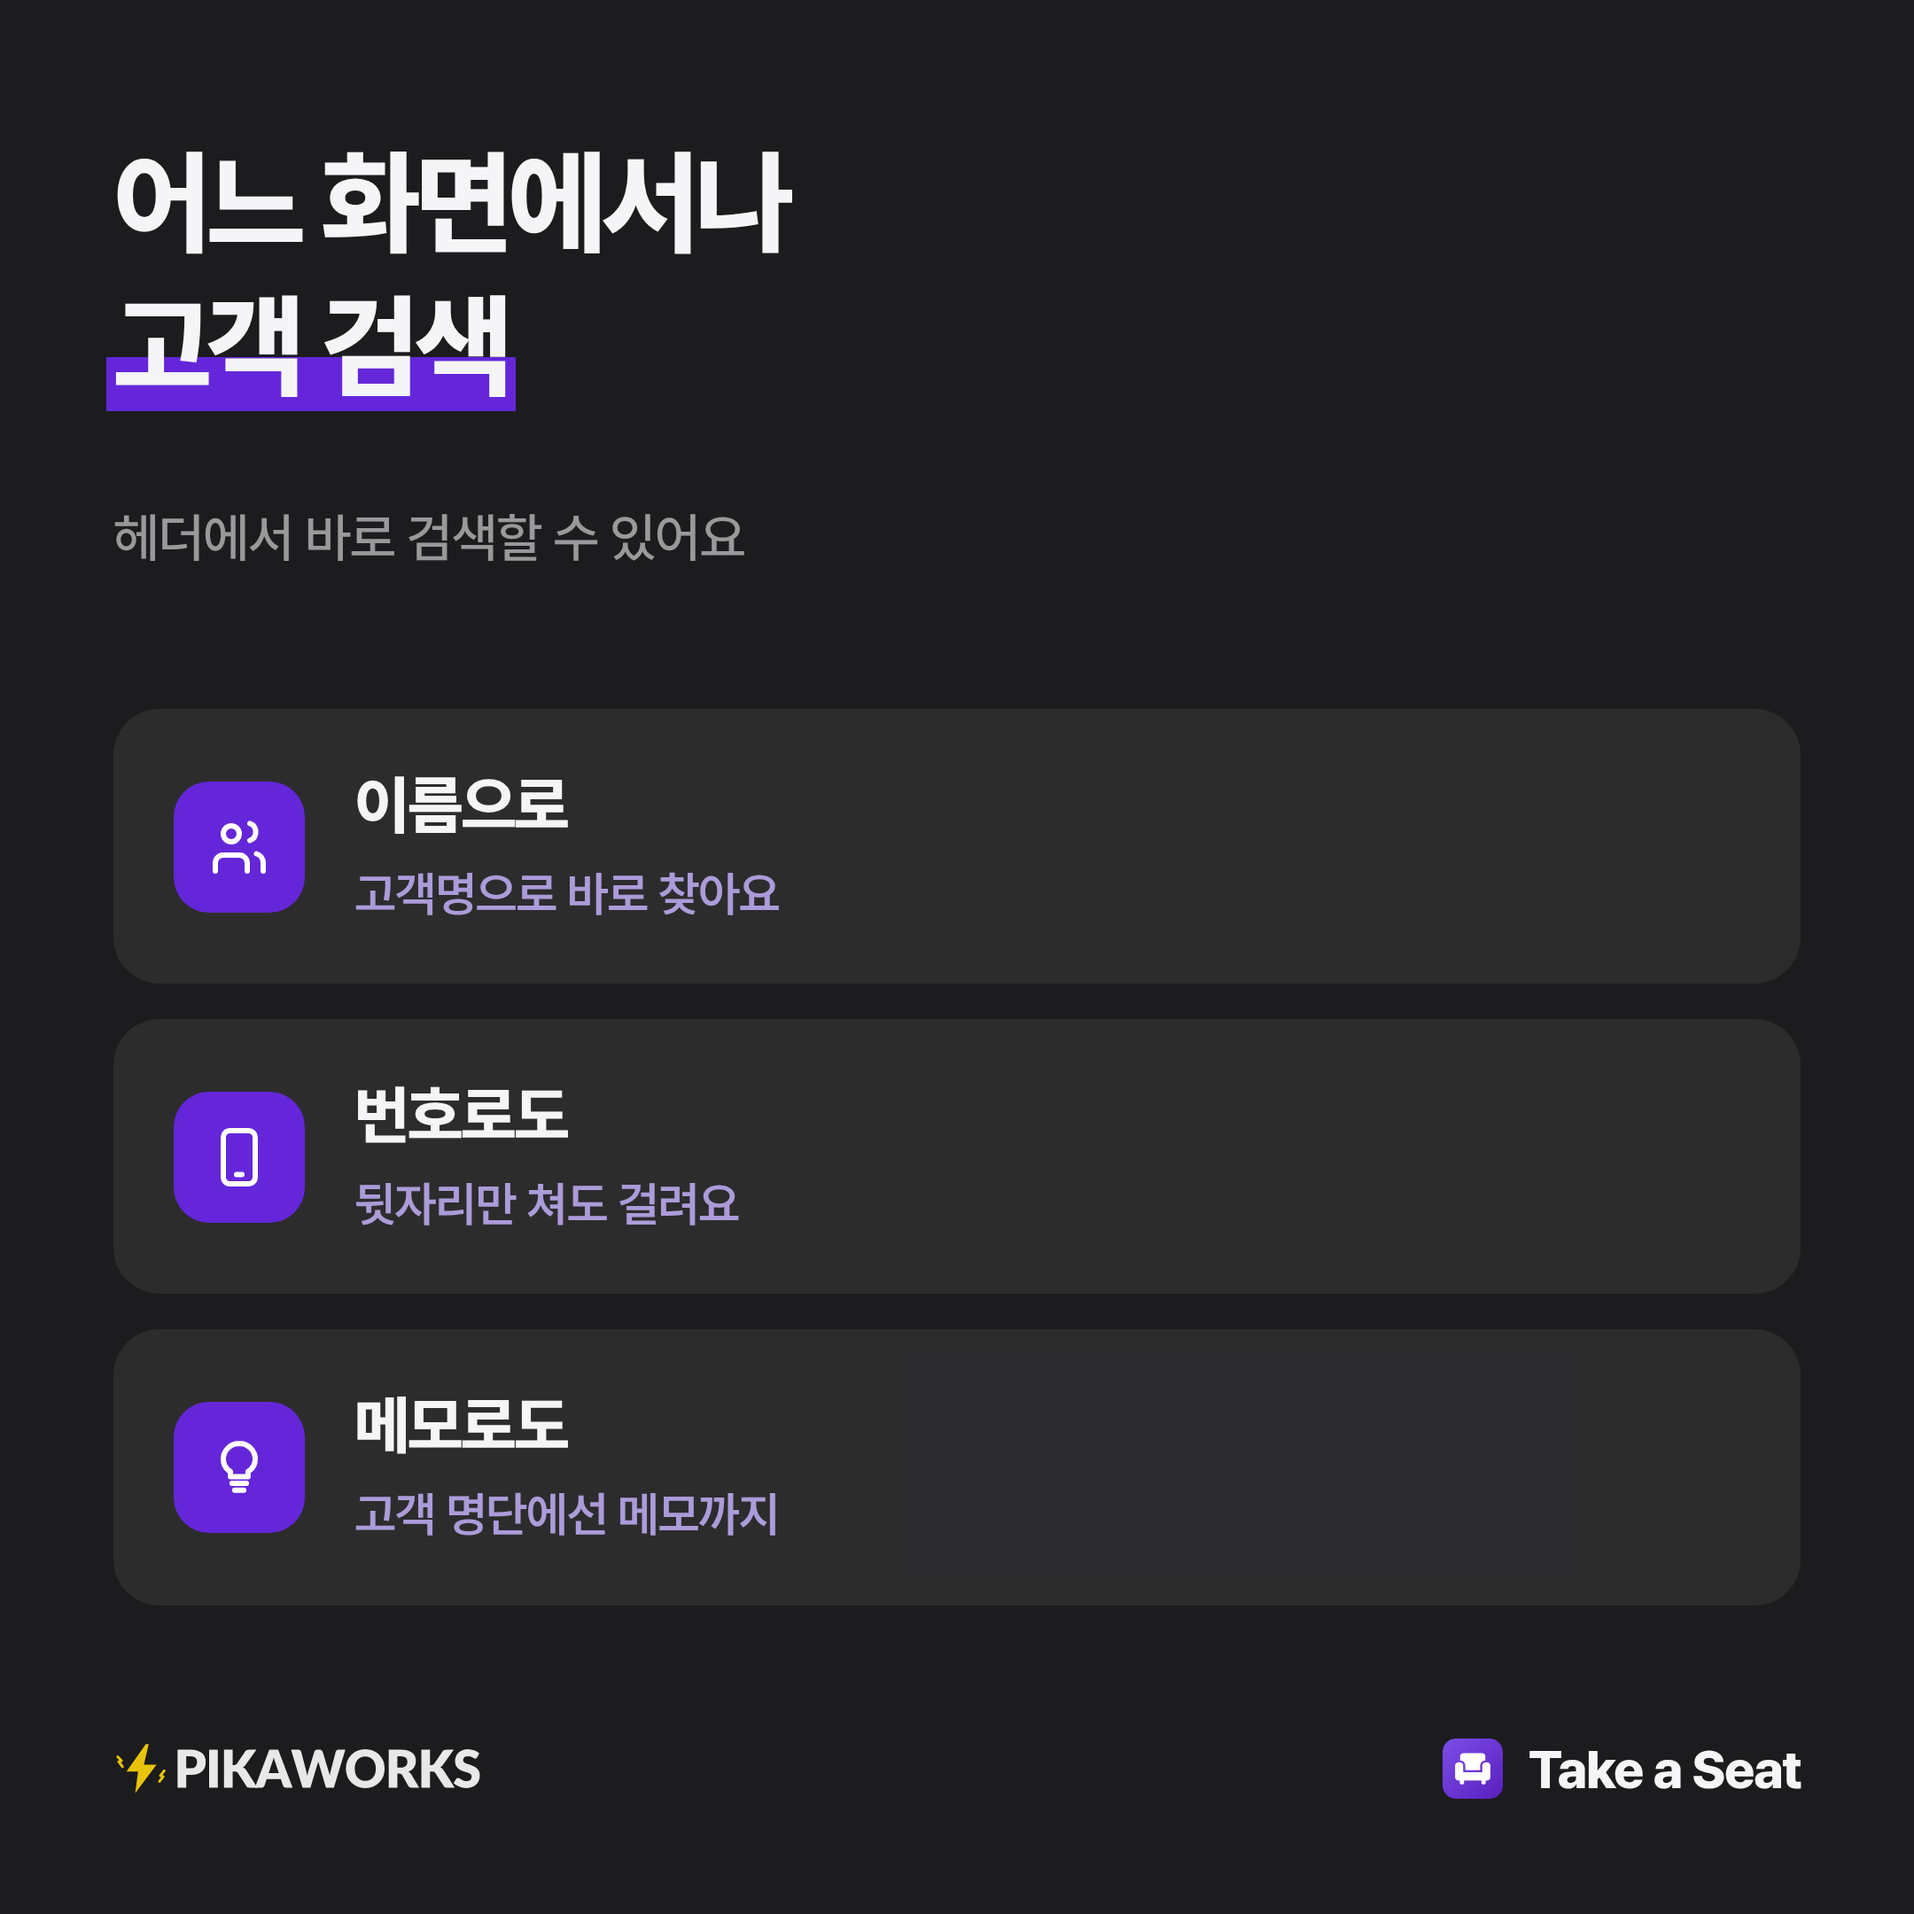
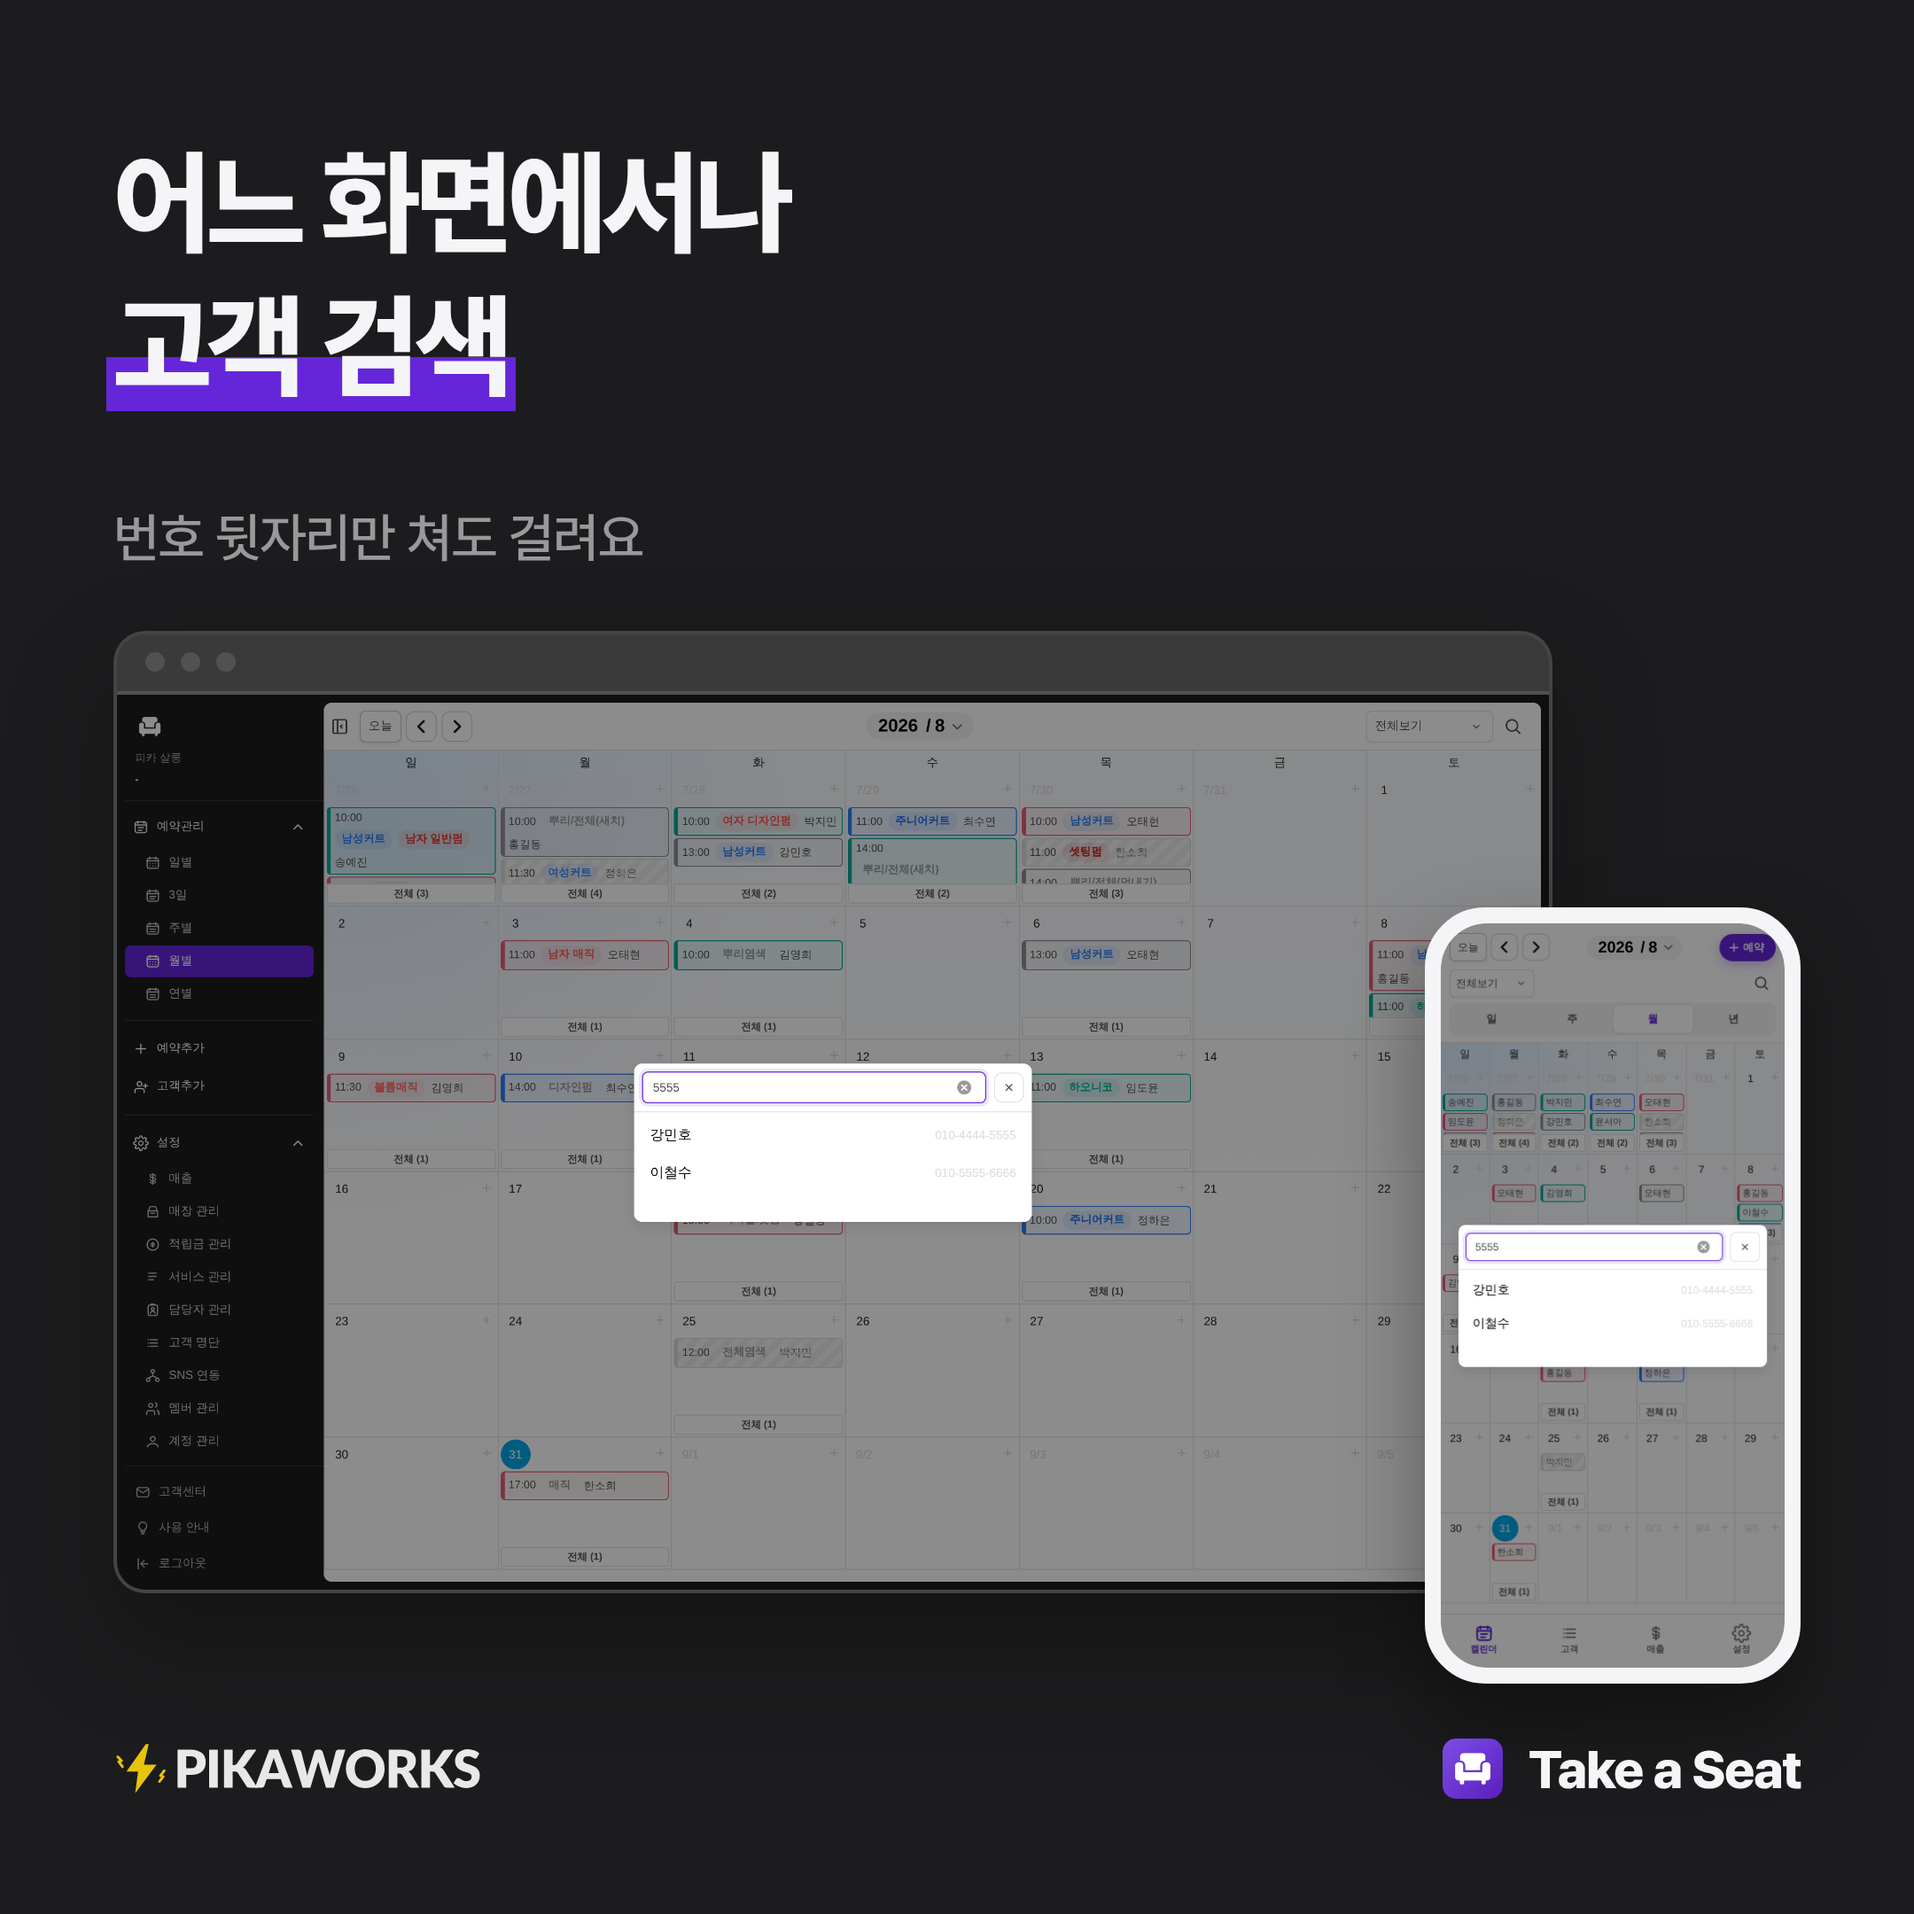
design(takeaseat-2): 도식 두 장을 실제 앱 화면으로 교체
사용자 요청. 검색과 고객정보를 실제로 찍어서 넣었다 — 도식은 우리가 그린
그림이고 스크린샷은 증거다.

찍은 것
  tas-{pc,mobile}-search.png    헤더 고객 검색 레이어. '5555' 를 치면
                                010-4444-5555 강민호와 010-5555-6666 이철수가
                                같이 걸린다 — 캡션의 '번호 뒷자리만' 이 그대로 보인다
  tas-{pc,mobile}-customer.png  고객정보. 적립금 170,750원 · 적립금 이력(5) ·
                                예약 내역(5) 이 한 화면에 있다

촬영기를 scripts/shoot-tas.mjs 로 남겼다. 지금까지는 절차가 SOURCE.md 산문에만
있어서 매번 손으로 재현해야 했다. 로그인·투어 제거·금지문구 검사·촬영을 한 번에 한다.

SOURCE.md 에 이번에 막혔던 지점들을 표로 적었다. 토큰이 유효해도 앱이 게이트를
세 번 치는데 전부 조용히 다른 화면을 보여준다 — 약관 동의(User.agreedTermsVersion),
온보딩(Store.onboarded), 적립금 미표시(Store.usePointSystem). 스크린샷만 봐서는
원인을 모르는 종류라 표로 남겼다.

프록시 함정도 적었다. 이 환경의 에이전트 프록시가 localhost 까지 가로채
ERR_TUNNEL_CONNECTION_FAILED 를 내므로 chromium 에 direct:// 를 줘야 한다.

시드 데이터는 여전히 가상이다. 적립금 이력이 시드에 1건뿐이라 이철수에게
5건을 잔액이 맞아떨어지게 넣었고, 그 사실도 SOURCE.md 에 적었다.

Claude-Session: https://claude.ai/code/session_01QZXqHKWR1E4ZNAZFY5AzgV

diff --git a/assets/shots/SOURCE.md b/assets/shots/SOURCE.md
@@ -13,6 +13,10 @@
 | `mobile-calendar.png` | 예약 캘린더 | 390×844 @2x |
 | `mobile-customers.png` | 고객 명단 | 390×844 @2x |
 | `mobile-revenue.png` | 매출 | 390×844 @2x |
+| `tas-pc-search.png` | 헤더 고객 검색 레이어 (`5555` 입력) | 1440×900 @2x |
+| `tas-mobile-search.png` | 〃 | 390×844 @2x |
+| `tas-pc-customer.png` | 고객정보 — 적립금 잔액·이력·예약 내역 | 1440×900 @2x |
+| `tas-mobile-customer.png` | 〃 | 390×844 @2x |
 
 데스크톱은 `localStorage['aside-visible'] = true` 로 사이드바를 펼친 채
 찍는다. 메뉴가 보여야 한 장에서 무엇을 하는 서비스인지 읽힌다.
@@ -44,6 +48,54 @@
    지운다(styled-components 해시 클래스라 선택자로는 못 잡는다).
    Next 개발 배지는 셰도루트 안이라 DOM 제거가 안 먹히므로
    `next.config.mjs` 에 `devIndicators: false` 를 넣어 끈다
+
+## 촬영 스크립트 (2026-08-31 신설)
+
+`scripts/shoot-tas.mjs` 가 로그인·투어 제거·검증·촬영을 한 번에 한다.
+아래 준비가 끝난 뒤 **이 저장소에서** 실행한다 — playwright 가 여기에만 있다.
+
+```bash
+# 1. postgres 16
+/usr/lib/postgresql/16/bin/initdb -D /var/lib/pgdata -U postgres --auth=trust
+pg_ctl -D /var/lib/pgdata -o '-k /var/run/postgresql' start && createdb tas
+
+# 2. tas 클론 → client 에서 설치·스키마·시드
+git clone --depth 50 https://github.com/mjkang0987/tas.git /tmp/repo
+cd /tmp/repo/client && pnpm install && pnpm prisma:db:push && pnpm prisma:seed
+
+# 3. 세션 토큰 (client 안에서 실행해야 next-auth 가 잡힌다)
+node -e "..." > /tmp/session-token.txt   # encode({token:{userId,sub,storeId,role,onboarded}, secret:AUTH_SECRET, salt:'authjs.session-token'})
+
+# 4. next dev → 3000
+cd /tmp/repo/client && pnpm dev
+
+# 5. 촬영
+cd <이 저장소> && node scripts/shoot-tas.mjs
+```
+
+### 시드만으로는 로그인 뒤 화면이 안 나온다 — DB 를 세 군데 고쳐야 한다
+
+토큰이 유효해도 앱이 게이트를 세 번 친다. 전부 조용히 다른 화면을 보여줘서
+스크린샷만 봐서는 원인을 모른다.
+
+| 증상 | 원인 | 조치 |
+|---|---|---|
+| 약관 동의 화면 | `User.agreedTermsVersion` 이 비어 있음 | `utils/terms.ts` 의 `CURRENT_TERMS_VERSION` 값을 넣는다 |
+| 업종 선택(온보딩) 화면 | `Store.onboarded=false` | `true` + `shopType` 지정 |
+| 적립금 메뉴·값이 안 보임 | `Store.usePointSystem=false` | `true`. 정책은 `StorePointSettings` |
+
+그 밖에 촬영용으로 손본 것 — 매장명 `Default Store` → `피카 살롱`,
+시드 예약이 2~4월이라 `date + INTERVAL '124 days'` 로 현재 구간으로 이동,
+`CustomerPointHistory` 는 시드에 1건뿐이라 이철수에게 5건(충전·결제 적립·
+결제 사용·수동 적립)을 잔액이 맞아떨어지게 넣고 `Customer.points` 를 맞췄다.
+적립이 붙으려면 해당 예약에 `price` 와 `paymentCompleted` 가 있어야 한다.
+
+**브라우저가 localhost 로 못 간다.** 이 환경의 에이전트 프록시가 가로채
+`ERR_TUNNEL_CONNECTION_FAILED` 를 낸다. `chromium.launch` 에
+`proxy: {server: 'direct://'}` 와 `--no-proxy-server` 를 준다.
+
+**검색 결과는 오버레이 안에서 클릭한다.** 바깥에 같은 고객명이 있으면
+playwright 가 그쪽을 집고, 오버레이가 클릭을 가로채 타임아웃이 난다.
 
 ## 촬영할 때 반드시 확인할 것
 
